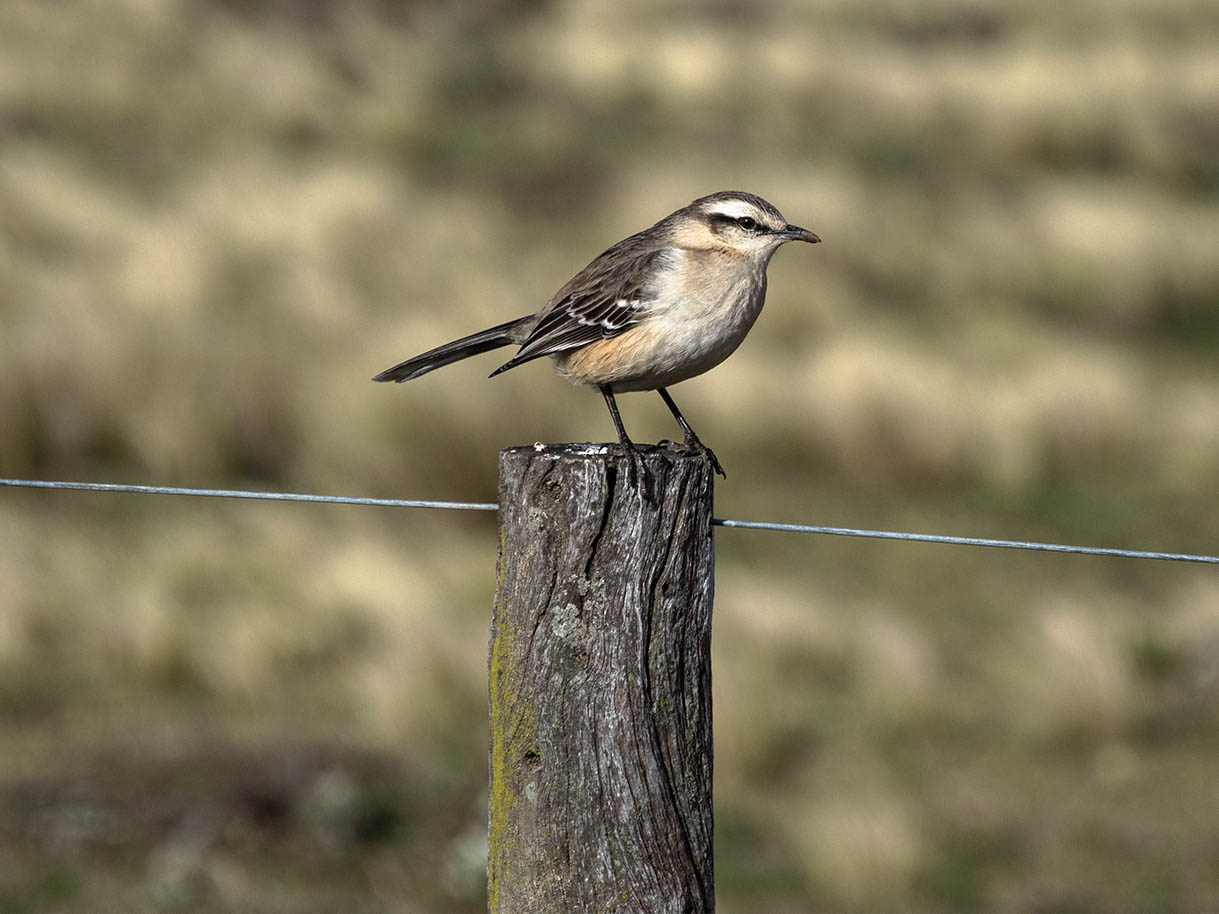
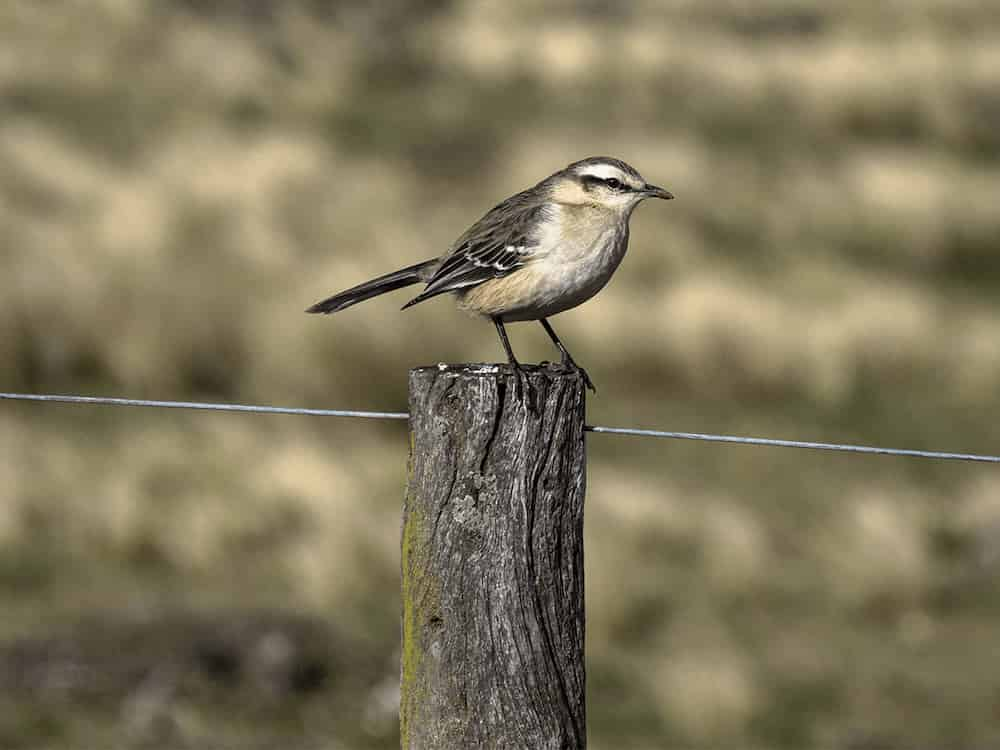
mejora de fotos y detalles de galeria

Changed region(s): [[0.434, 0.3373, 0.527, 0.3987], [0.496, 0.5213, 0.527, 0.552], [0.465, 0.4907, 0.496, 0.5213]]

diff --git a/pages/galery.html b/pages/galery.html
@@ -25,46 +25,27 @@
 
     <main>
         <h1>Gallery</h1>
-    
-        <div class="categories">
-            <a href="#futbol" class="category-link">Fútbol</a>
-            <a href="#ciclismo" class="category-link">Ciclismo</a>
-            <a href="#paisajes" class="category-link">Paisajes</a>
-            <a href="#eventos" class="category-link">Eventos</a>
-            <a href="#all" class="category-link">Ver Todo</a>
-        </div>
 
-        <div class="gallery" id="all">
-            <!-- Fútbol -->
+            <div class="gallery" id="all">
+
             <div id="futbol" class="category-futbol">
-            <img src="../assets/galery/Futbol/70-30-109.JPG" alt="Fútbol 1">
-            <img src="../assets/galery/Futbol/70-30-36.JPG" alt="Fútbol 2">
-            <img src="../assets/galery/Futbol/70-30-6.JPG" alt="Fútbol 3">
-            <img src="../assets/galery/Futbol/70-30-60.JPG" alt="Fútbol 4">
+                <img src="../assets/galery/70-30-36.jpg" alt="futbol 1">
+                <img src="../assets/galery/70-30-6.jpg" alt="futbol 2">
+                <img src="../assets/galery/70-30-60.jpg" alt="futbol 3">
             </div>
     
-            <!-- Ciclismo -->
+
             <div id="ciclismo" class="category-ciclismo">
-            <img src="../assets/galery/Mountan Bike/Gran Vuelta Bahia Blanca-1.jpg" alt="Ciclismo 1">
-            <img src="../assets/galery/Mountan Bike/Gran Vuelta Bahia Blanca-10.jpg" alt="Ciclismo 2">
-            <img src="../assets/galery/Mountan Bike/Gran Vuelta Bahia Blanca-11.jpg" alt="Ciclismo 3">
-            <img src="../assets/galery/Mountan Bike/Gran Vuelta Bahia Blanca-2.jpg" alt="Ciclismo 4">
+                <img src="../assets/galery/Gran Vuelta Bahia Blanca 01-1.jpg" alt="ciclismo">
+                <img src="../assets/galery/Lago (tirolesa y canoas)-25.jpg" alt="tirolesa">
+                <img src="../assets/galery/Sierra 2024-9.jpg" alt="paisaje sierra">
             </div>
-    
-            <!-- Paisajes -->
+
+
             <div id="paisajes" class="category-paisajes">
-            <img src="../assets/galery/Sierra/Sierra 2024-10.jpg" alt="Paisaje 1">
-            <img src="../assets/galery/Sierra/Sierra 2024-17.jpg" alt="Paisaje 2">
-            <img src="../assets/galery/Sierra/Sierra 2024-12.jpg" alt="Paisaje 3">
-            <img src="../assets/galery/Sierra/Sierra 2024-16.jpg" alt="Paisaje 4">
-            </div>
-    
-            <!-- Eventos -->
-            <div id="eventos" class="category-eventos">
-            <img src="../assets/galery/Emma/Emma-56.jpg" alt="Evento 1">
-            <img src="../assets/galery/Emma/Emma-61.jpg" alt="Evento 2">
-            <img src="../assets/galery/Spiderman/spiderman 4.jpg" alt="Evento 3">
-            <img src="../assets/galery/Rancho de popy/Lago (tirolesa y canoas)-25.jpg" alt="Evento 4">
+                <img src="../assets/galery/Emma-4.jpg" alt="eventos niños">
+                <img src="../assets/galery/../galery/Emma-56.jpg" alt="niños">
+                <img src="../assets/galery/Emma-61.jpg" alt="niños2">
             </div>
 
 

diff --git a/css/styles.css b/css/styles.css
@@ -7,6 +7,10 @@ body, html {
     box-sizing: border-box;
 }
 
+img {
+    max-width: 100%;
+    height: auto;
+}  
 
 .fondo-home {
     background-image: url('../assets/fondo-home.jpg');
@@ -19,7 +23,7 @@ body, html {
 }
 
 .fondo-home {
-    background-image: url(../assets/Epecuen-42.jpg);
+    background-image: url("../assets/Epecuen-42.jpg");
     background-size: cover;
     background-position: center;
     background-repeat: no-repeat;
@@ -35,7 +39,7 @@ header, main {
 }
 
 footer {
-    background-image: url(../assets/footer.jpg);
+    background-color: rgb(193, 195, 190);
     background-size: cover;
     background-position: center;
     background-repeat: no-repeat;
@@ -148,7 +152,7 @@ button:hover {
 }
 
 .fondo-galery {
-        background-image: url(../assets/fondo-galeria.png);
+        background-image: url("../assets/fondo-galeria.png");
         background-size:cover;
         background-position: center; 
         background-repeat: no-repeat;
@@ -181,7 +185,7 @@ form{
     color: white;
 }
 
-/* Estilo general del formulario */
+
 .contact-form {
     max-width: 500px;
     margin: 0 auto;
@@ -192,14 +196,14 @@ form{
     font-family: Arial, sans-serif;
 }
 
-  /* Estilo de las etiquetas */
+
 .contact-form label {
     display: block;
     margin-bottom: 8px;
     font-weight: bold;
 }
 
-  /* Estilo de los campos de entrada y textarea */
+
 .contact-form input[type="text"],
 .contact-form input[type="email"],
 .contact-form textarea {
@@ -212,7 +216,7 @@ form{
     box-sizing: border-box;
 }
 
-  /* Estilo del botón */
+
 .contact-form button {
     width: 100%;
     padding: 10px;
@@ -224,12 +228,12 @@ form{
     cursor: pointer;
 }
 
-  /* Efecto hover para el botón */
+
 .contact-form button:hover {
     background-color: #0056b3;
 }
 
-  /* Estilos adicionales */
+
 .contact-form input:focus,
 .contact-form textarea:focus {
     border-color: #007BFF;
